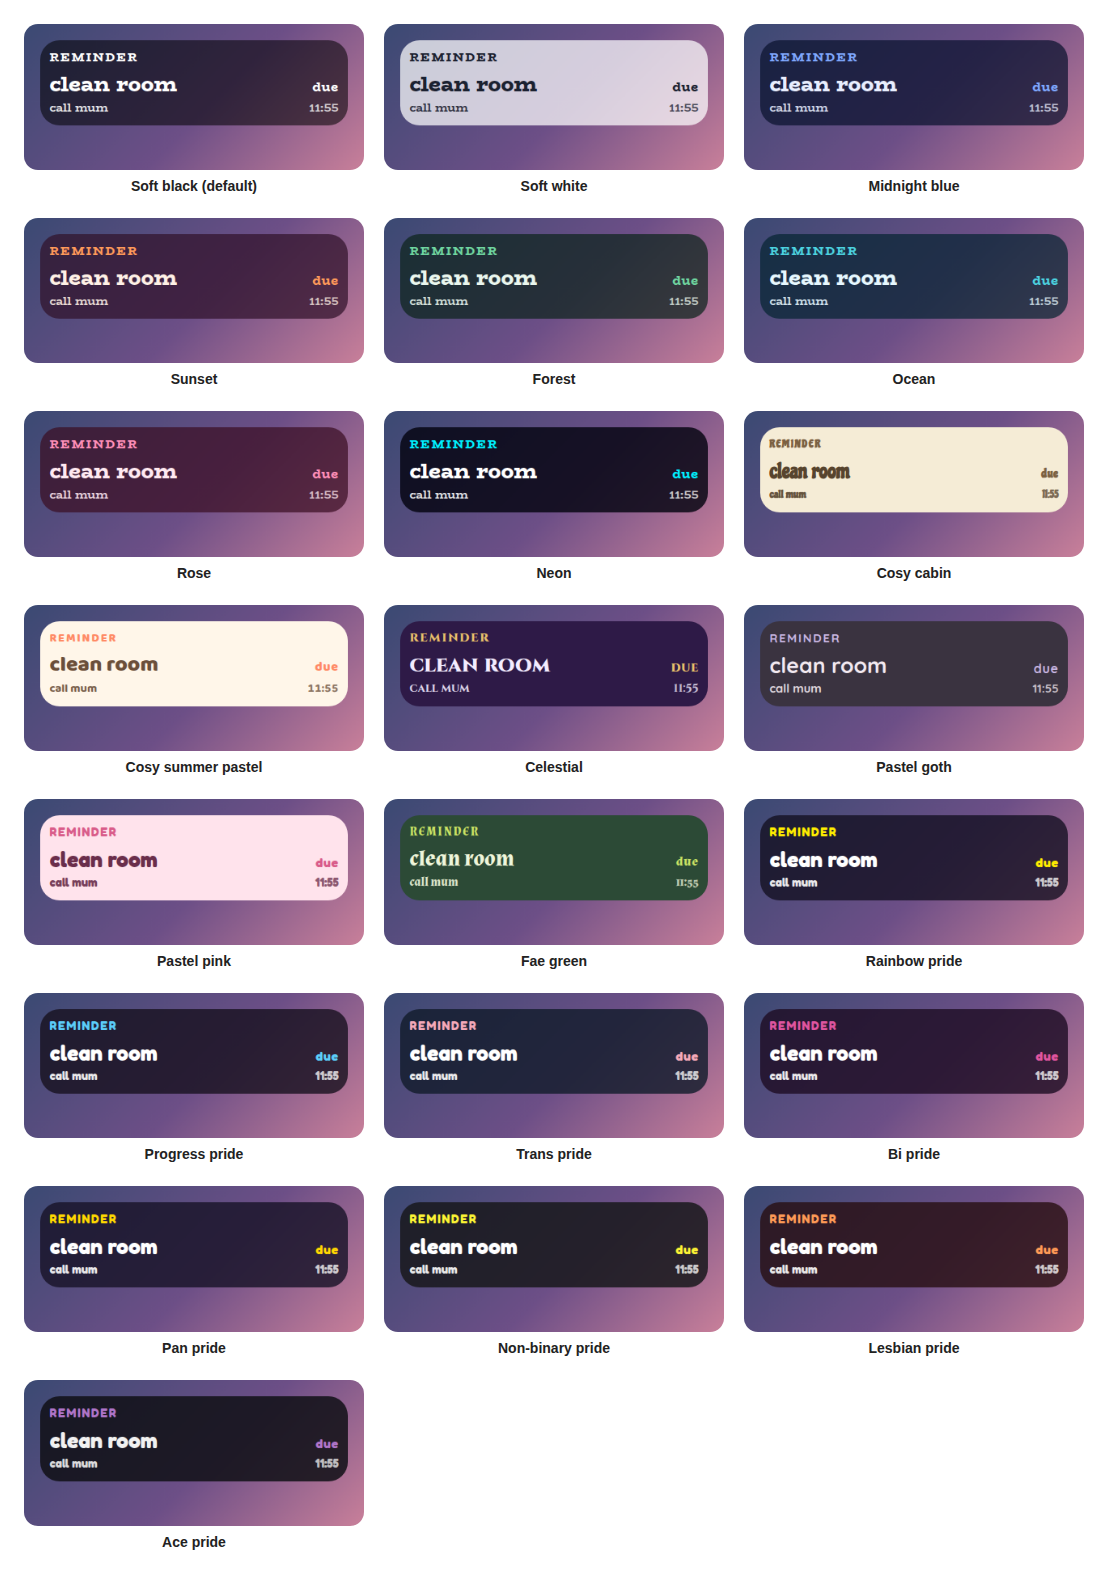
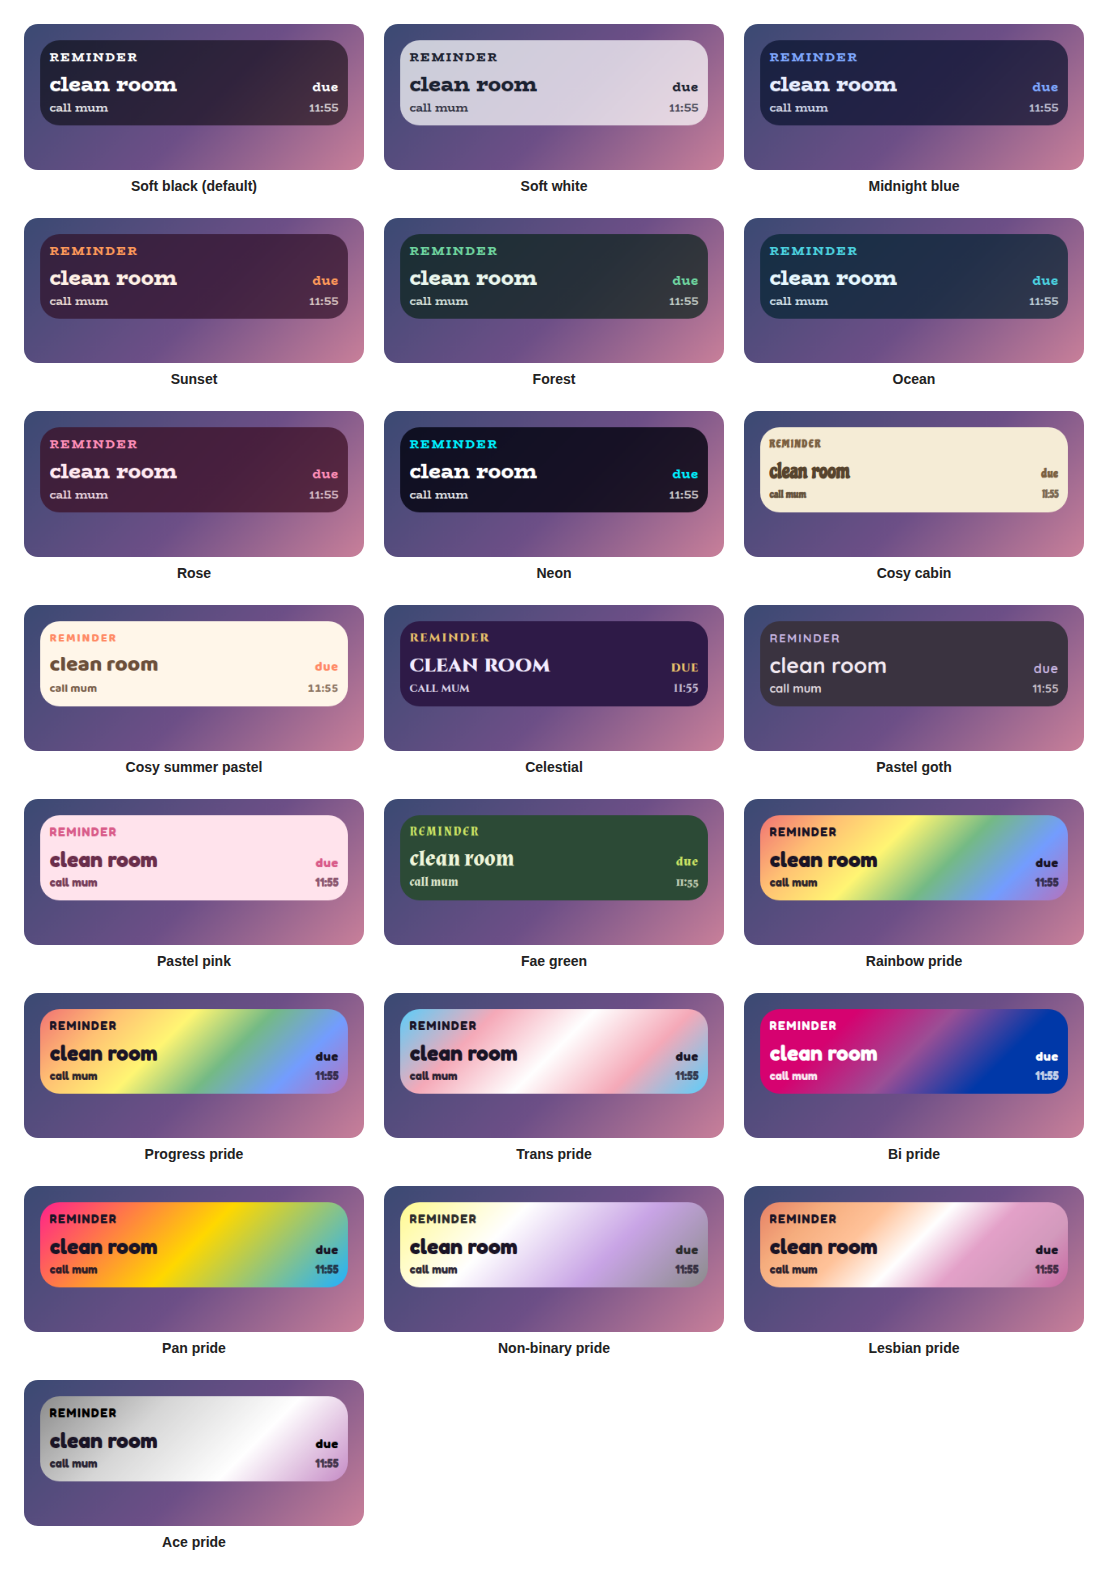
Give the pride presets flag-coloured panels
The pride presets used to be a dark card with only a thin striped bar, so the flag barely showed and the card did not match the palette. Now the card or panel itself wears the flag, as a soft gradient of its stripes, with the text kept readable.

How strong a wash goes over it is worked out, not guessed: the weakest scrim that keeps the text at a contrast of 4.6 or better against every stripe, in white or dark text as the flag needs. Trans, bi and pan need none, and a flag with a black stripe, such as ace and non-binary, gets a lighter wash. A plain colour stays as the fallback, so nothing that only understands a colour is affected, and every other preset, and Custom, is unchanged. The README gallery shows all twenty-two, and the tests check it.

diff --git a/widget/widget.js b/widget/widget.js
@@ -18,14 +18,14 @@
     pastelgoth: { panel: "#3A3340", text: "#F2E9F0", accent: "#C8B6E2", track: "rgba(255, 255, 255, 0.18)", alarm: "#C96A8E", font: "Quicksand" },
     pastelpink: { panel: "#FFE3EC", text: "#6A2E4B", accent: "#D95C8A", track: "rgba(106, 46, 75, 0.14)", alarm: "#D6456F", font: "Fredoka" },
     faegreen: { panel: "#2C4A36", text: "#EEF5DA", accent: "#C9E265", track: "rgba(238, 245, 218, 0.2)", alarm: "#E0805A", font: "Almendra" },
-    pride: { panel: "rgba(20, 16, 34, 0.8)", text: "#FFFFFF", accent: "#FFEE00", track: "rgba(255, 255, 255, 0.2)", alarm: "#FF5C5C", font: "Fredoka", flag: ["#E50000", "#FF8D00", "#FFEE00", "#028121", "#004CFF", "#770088"] },
-    progress: { panel: "rgba(22, 16, 30, 0.8)", text: "#FFFFFF", accent: "#5BCEFA", track: "rgba(255, 255, 255, 0.2)", alarm: "#FF5C5C", font: "Fredoka", flag: ["#E50000", "#FF8D00", "#FFEE00", "#028121", "#004CFF", "#770088"] },
-    trans: { panel: "rgba(18, 28, 44, 0.82)", text: "#FFFFFF", accent: "#F5A9B8", track: "rgba(255, 255, 255, 0.2)", alarm: "#FF5C5C", font: "Fredoka", flag: ["#5BCEFA", "#F5A9B8", "#FFFFFF", "#F5A9B8", "#5BCEFA"] },
-    bi: { panel: "rgba(30, 14, 36, 0.82)", text: "#FFFFFF", accent: "#E0559F", track: "rgba(255, 255, 255, 0.2)", alarm: "#FF5C5C", font: "Fredoka", flag: ["#D60270", "#D60270", "#9B4F96", "#0038A8", "#0038A8"] },
-    pan: { panel: "rgba(24, 20, 40, 0.82)", text: "#FFFFFF", accent: "#FFD800", track: "rgba(255, 255, 255, 0.2)", alarm: "#FF5C5C", font: "Fredoka", flag: ["#FF218C", "#FFD800", "#21B1FF"] },
-    enby: { panel: "rgba(24, 24, 28, 0.86)", text: "#FFFFFF", accent: "#FFF433", track: "rgba(255, 255, 255, 0.2)", alarm: "#FF5C5C", font: "Fredoka", flag: ["#FFF433", "#FFFFFF", "#9B59D0", "#2D2D2D"] },
-    lesbian: { panel: "rgba(40, 16, 20, 0.82)", text: "#FFFFFF", accent: "#FF9A56", track: "rgba(255, 255, 255, 0.2)", alarm: "#FF5C5C", font: "Fredoka", flag: ["#D52D00", "#EF7627", "#FF9A56", "#FFFFFF", "#D162A4", "#B55690", "#A30262"] },
-    ace: { panel: "rgba(16, 16, 22, 0.86)", text: "#F1F1F1", accent: "#B075C9", track: "rgba(255, 255, 255, 0.2)", alarm: "#FF5C5C", font: "Fredoka", flag: ["#000000", "#A3A3A3", "#FFFFFF", "#800080"] }
+    pride: { panel: "rgba(194, 168, 154, 0.9)", text: "#1A1426", accent: "#1A1426", track: "rgba(26, 20, 38, 0.34)", alarm: "#B3123A", font: "Fredoka", flag: ["#E50000", "#FF8D00", "#FFEE00", "#028121", "#004CFF", "#770088"], bgimg: "linear-gradient(rgba(255, 255, 255, 0.45), rgba(255, 255, 255, 0.45)), linear-gradient(135deg, #E50000, #FF8D00, #FFEE00, #028121, #004CFF, #770088)" },
+    progress: { panel: "rgba(194, 168, 154, 0.9)", text: "#1A1426", accent: "#1A1426", track: "rgba(26, 20, 38, 0.34)", alarm: "#B3123A", font: "Fredoka", flag: ["#E50000", "#FF8D00", "#FFEE00", "#028121", "#004CFF", "#770088"], bgimg: "linear-gradient(rgba(255, 255, 255, 0.45), rgba(255, 255, 255, 0.45)), linear-gradient(135deg, #E50000, #FF8D00, #FFEE00, #028121, #004CFF, #770088)" },
+    trans: { panel: "rgba(185, 201, 225, 0.9)", text: "#1A1426", accent: "#1A1426", track: "rgba(26, 20, 38, 0.34)", alarm: "#B3123A", font: "Fredoka", flag: ["#5BCEFA", "#F5A9B8", "#FFFFFF", "#F5A9B8", "#5BCEFA"], bgimg: "linear-gradient(135deg, #5BCEFA, #F5A9B8, #FFFFFF, #F5A9B8, #5BCEFA)" },
+    bi: { panel: "rgba(117, 39, 142, 0.9)", text: "#FFFFFF", accent: "#FFFFFF", track: "rgba(255, 255, 255, 0.24)", alarm: "#FF6B6B", font: "Fredoka", flag: ["#D60270", "#D60270", "#9B4F96", "#0038A8", "#0038A8"], bgimg: "linear-gradient(135deg, #D60270, #D60270, #9B4F96, #0038A8, #0038A8)" },
+    pan: { panel: "rgba(181, 142, 132, 0.9)", text: "#1A1426", accent: "#1A1426", track: "rgba(26, 20, 38, 0.34)", alarm: "#B3123A", font: "Fredoka", flag: ["#FF218C", "#FFD800", "#21B1FF"], bgimg: "linear-gradient(135deg, #FF218C, #FFD800, #21B1FF)" },
+    enby: { panel: "rgba(212, 202, 192, 0.9)", text: "#1A1426", accent: "#2D2D2D", track: "rgba(26, 20, 38, 0.34)", alarm: "#B3123A", font: "Fredoka", flag: ["#FFF433", "#FFFFFF", "#9B59D0", "#2D2D2D"], bgimg: "linear-gradient(rgba(255, 255, 255, 0.45), rgba(255, 255, 255, 0.45)), linear-gradient(135deg, #FFF433, #FFFFFF, #9B59D0, #2D2D2D)" },
+    lesbian: { panel: "rgba(232, 167, 169, 0.9)", text: "#1A1426", accent: "#1A1426", track: "rgba(26, 20, 38, 0.34)", alarm: "#B3123A", font: "Fredoka", flag: ["#D52D00", "#EF7627", "#FF9A56", "#FFFFFF", "#D162A4", "#B55690", "#A30262"], bgimg: "linear-gradient(rgba(255, 255, 255, 0.40), rgba(255, 255, 255, 0.40)), linear-gradient(135deg, #D52D00, #EF7627, #FF9A56, #FFFFFF, #D162A4, #B55690, #A30262)" },
+    ace: { panel: "rgba(202, 187, 202, 0.9)", text: "#1A1426", accent: "#000000", track: "rgba(26, 20, 38, 0.34)", alarm: "#B3123A", font: "Fredoka", flag: ["#000000", "#A3A3A3", "#FFFFFF", "#800080"], bgimg: "linear-gradient(rgba(255, 255, 255, 0.55), rgba(255, 255, 255, 0.55)), linear-gradient(135deg, #000000, #A3A3A3, #FFFFFF, #800080)" }
   };
 
   // ---- shared by every overlay in this set ----
@@ -117,6 +117,7 @@
     s.setProperty("--w-track", t.track);
     s.setProperty("--w-alarm", t.alarm);
     s.setProperty("--w-flag", t.flag ? flagGradient(t.flag) : t.accent);
+    s.setProperty("--w-bgimg", t.bgimg || "none");
     s.setProperty("--w-font", '"' + t.font + '", Georgia, serif');
     s.setProperty("--w-radius", c.radius + "px");
     s.setProperty("--w-pad", c.pad);

diff --git a/test/mock.js b/test/mock.js
@@ -112,6 +112,8 @@ module.exports = function createEnv(root) {
         if (v["--w-bg"] !== x.panel || v["--w-text"] !== x.text || v["--w-accent"] !== x.accent || String(v["--w-font"]).indexOf('"' + x.font + '"') !== 0) {
           all = false; console.log("    colours differ for " + key + ": " + v["--w-bg"]);
         }
+        // A pride preset puts its flag behind the panel as an image. Every other preset leaves the panel plain.
+        if (v["--w-bgimg"] !== (x.bgimg || "none")) { all = false; console.log("    panel image differs for " + key + ": " + v["--w-bgimg"]); }
         // A pride preset gives bars the stripes of its flag, top to bottom. Every other preset gives them the accent.
         const wantFlag = x.flag ? "linear-gradient(180deg, " + x.flag[0] + " 0% " + (100 / x.flag.length) + "%" : x.accent;
         if (x.flag ? String(v["--w-flag"]).indexOf(wantFlag) !== 0 || String(v["--w-flag"]).split(", ").length !== x.flag.length + 1 : v["--w-flag"] !== wantFlag) {

diff --git a/widget/widget.css b/widget/widget.css
@@ -45,6 +45,7 @@
   font-family: var(--w-font);
   color: var(--w-text);
   background: var(--w-bg);
+  background-image: var(--w-bgimg, none);
   border: var(--w-border);
   border-radius: var(--w-radius);
   box-shadow: var(--w-shadow);

diff --git a/README.md b/README.md
@@ -51,16 +51,16 @@ One setting picks the look. The same twenty-two presets, with the same colours, 
 | Pastel goth | Charcoal and lilac, in Quicksand. |
 | Pastel pink | Soft blush pink with rose, in Fredoka. |
 | Fae green | Mossy green with a firefly lime accent, in Almendra. |
-| Rainbow pride | Dark plum with the six rainbow stripes, in Fredoka. |
-| Progress pride | The six rainbow stripes with the chevron's pink and light blue. |
-| Trans pride | Dark blue with light blue, pink and white. |
-| Bi pride | Dark violet with magenta, purple and blue. |
-| Pan pride | Dark indigo with pink, yellow and light blue. |
-| Non-binary pride | Charcoal with yellow, white, purple and black. |
-| Lesbian pride | Dark wine with the orange to pink stripes. |
-| Ace pride | Near black with grey, white and purple. |
+| Rainbow pride | A soft wash of the six rainbow stripes, in Fredoka. |
+| Progress pride | The same stripes, with the chevron's pink and light blue in the wheel and poll colours. |
+| Trans pride | Light blue, pink and white. |
+| Bi pride | Magenta, purple and blue, with white text. |
+| Pan pride | Pink, yellow and light blue. |
+| Non-binary pride | Yellow, white, purple and black, softened so the text stays readable. |
+| Lesbian pride | The orange to pink stripes. |
+| Ace pride | Black, grey, white and purple, softened so the text stays readable. |
 
-The last eight are pride presets, built from the stripes of the rainbow, progress, trans, bi, pan, non-binary, lesbian and ace flags. A bar is striped like the flag where an overlay has one, and the slices of a wheel and the options of a poll take their colours from the stripes in order. The colours follow each flag's published design, and the progress flag shows its six rainbow stripes, because its chevron is a separate shape.
+The last eight are pride presets, built from the stripes of the rainbow, progress, trans, bi, pan, non-binary, lesbian and ace flags. The card or panel wears the flag as its background, with only as much of a wash over it as the text needs to stay readable, so flags with a black stripe come out softer. A bar is striped like the flag where an overlay has one, and the slices of a wheel and the options of a poll take their colours from the stripes in order. The colours follow each flag's published design, and the progress flag shows its six rainbow stripes, because its chevron is a separate shape.
 
 Choose **Custom** to use the colour pickers and font instead. They are ignored while a preset is chosen.
 
